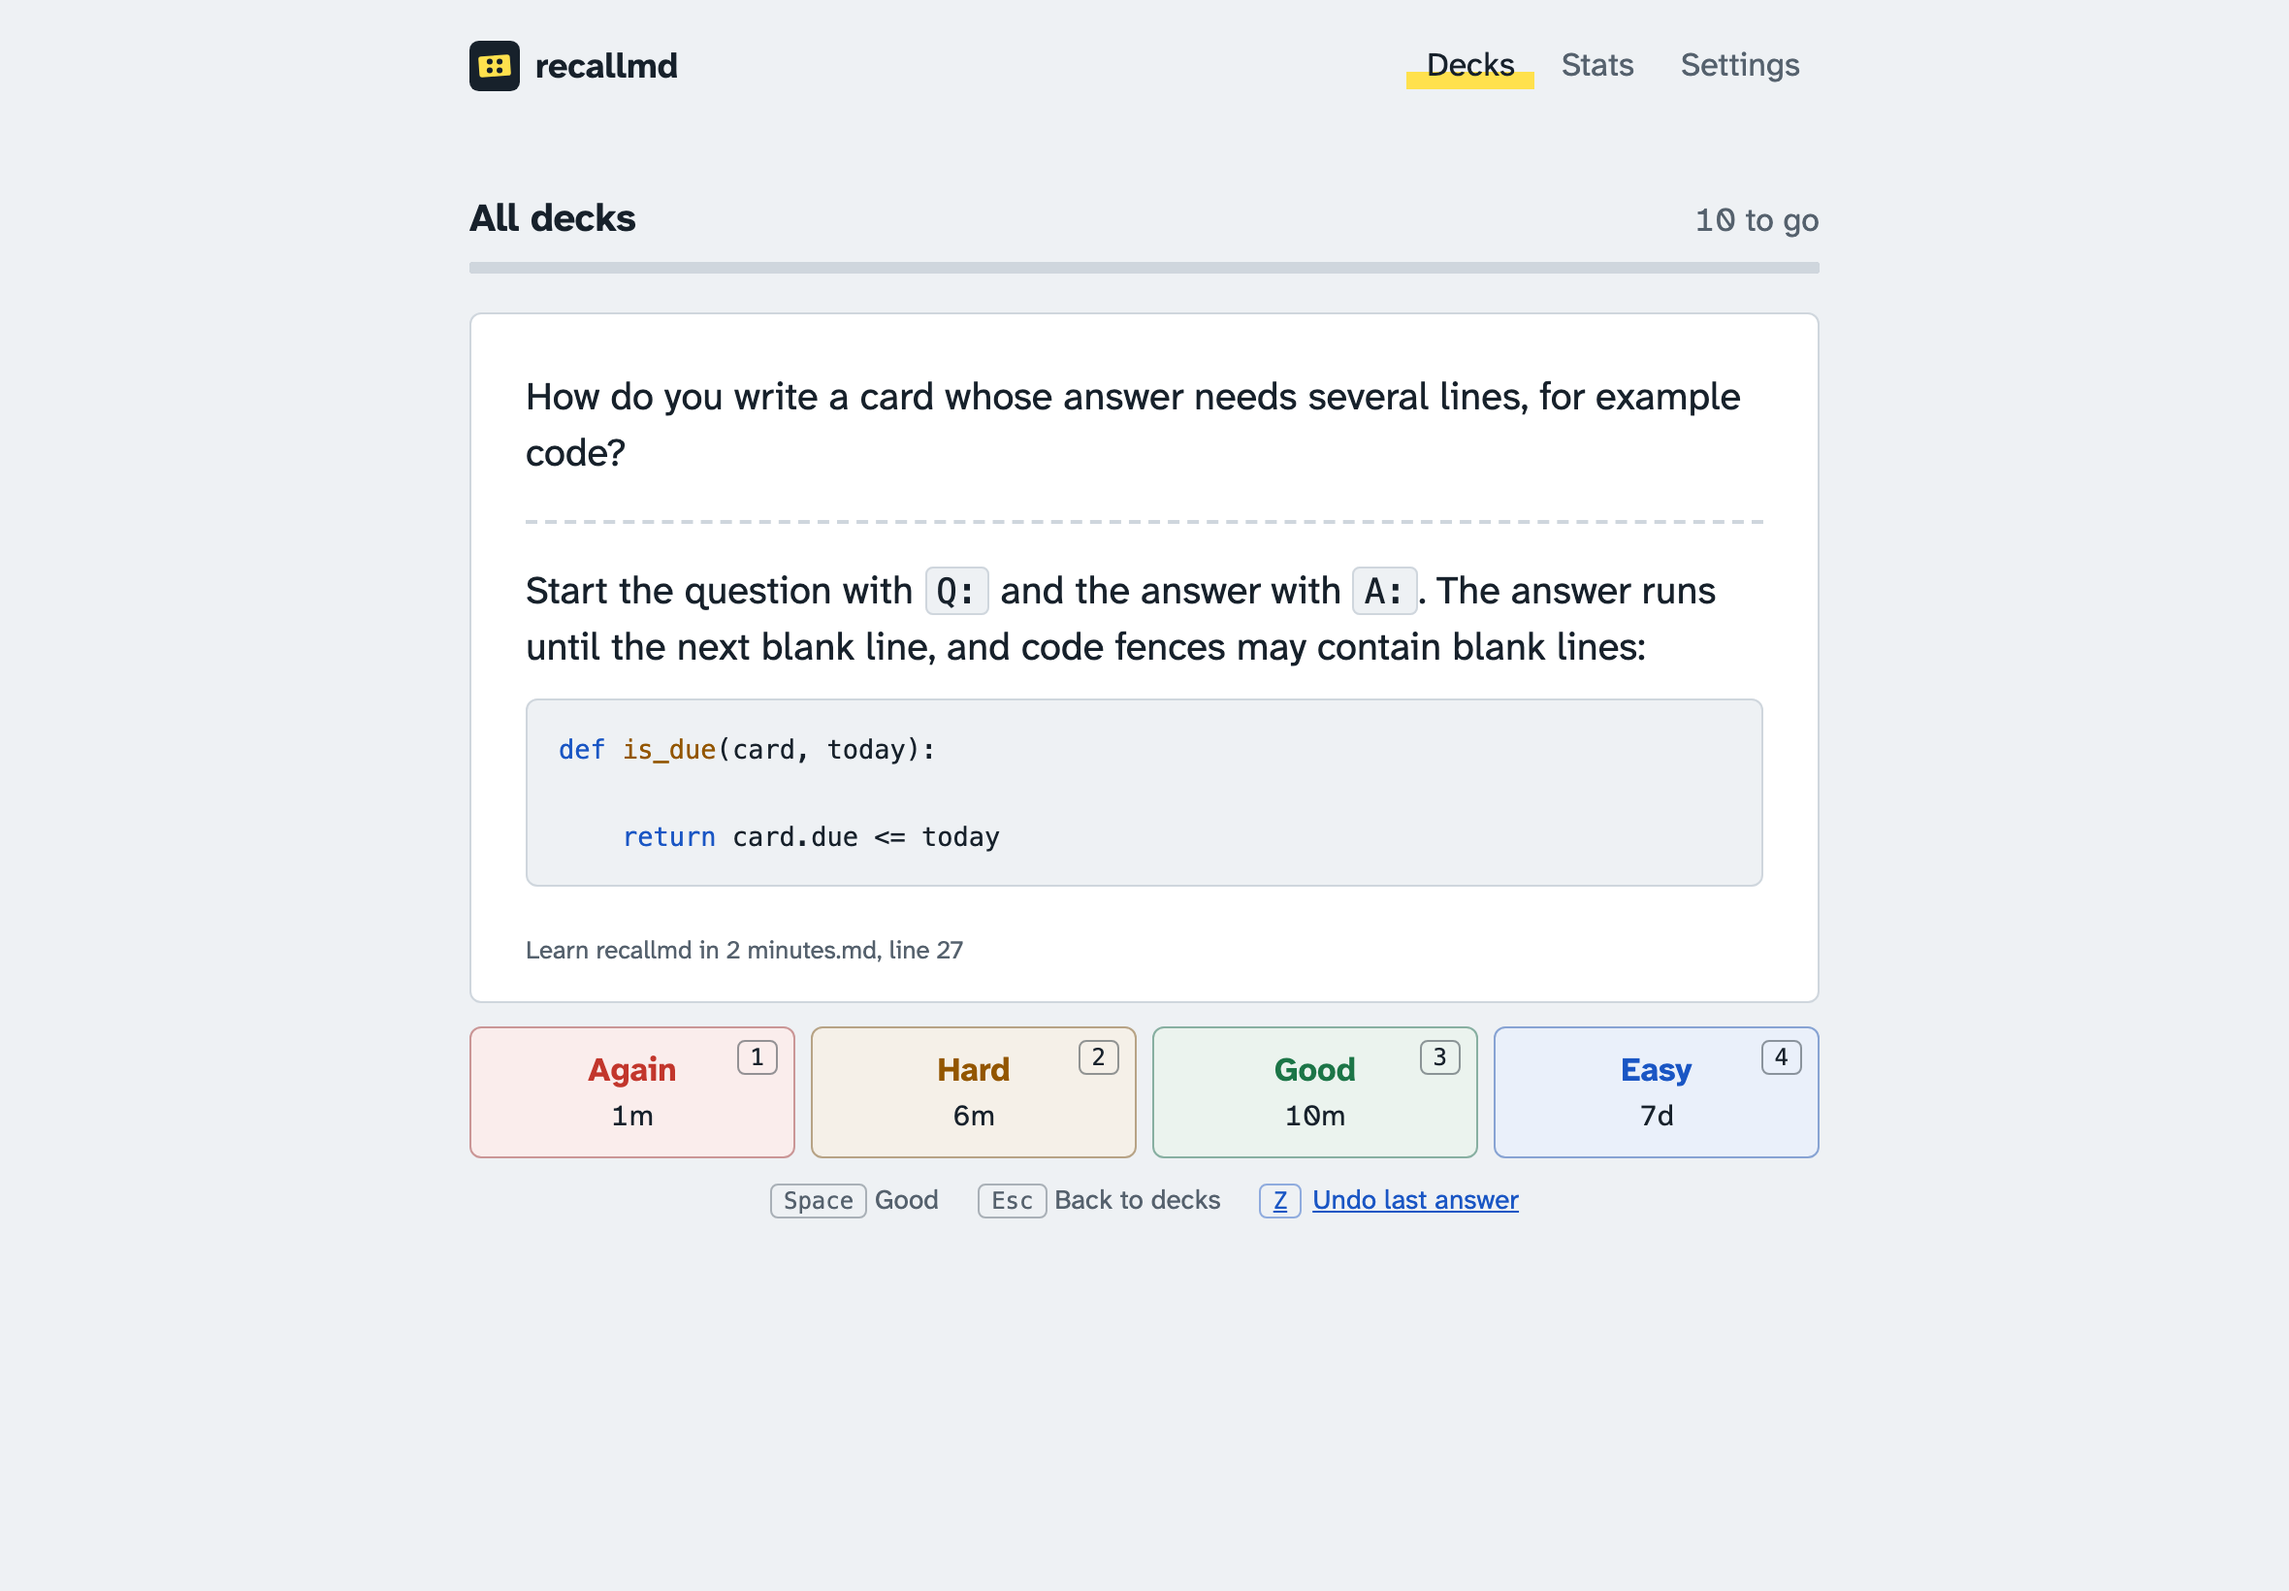
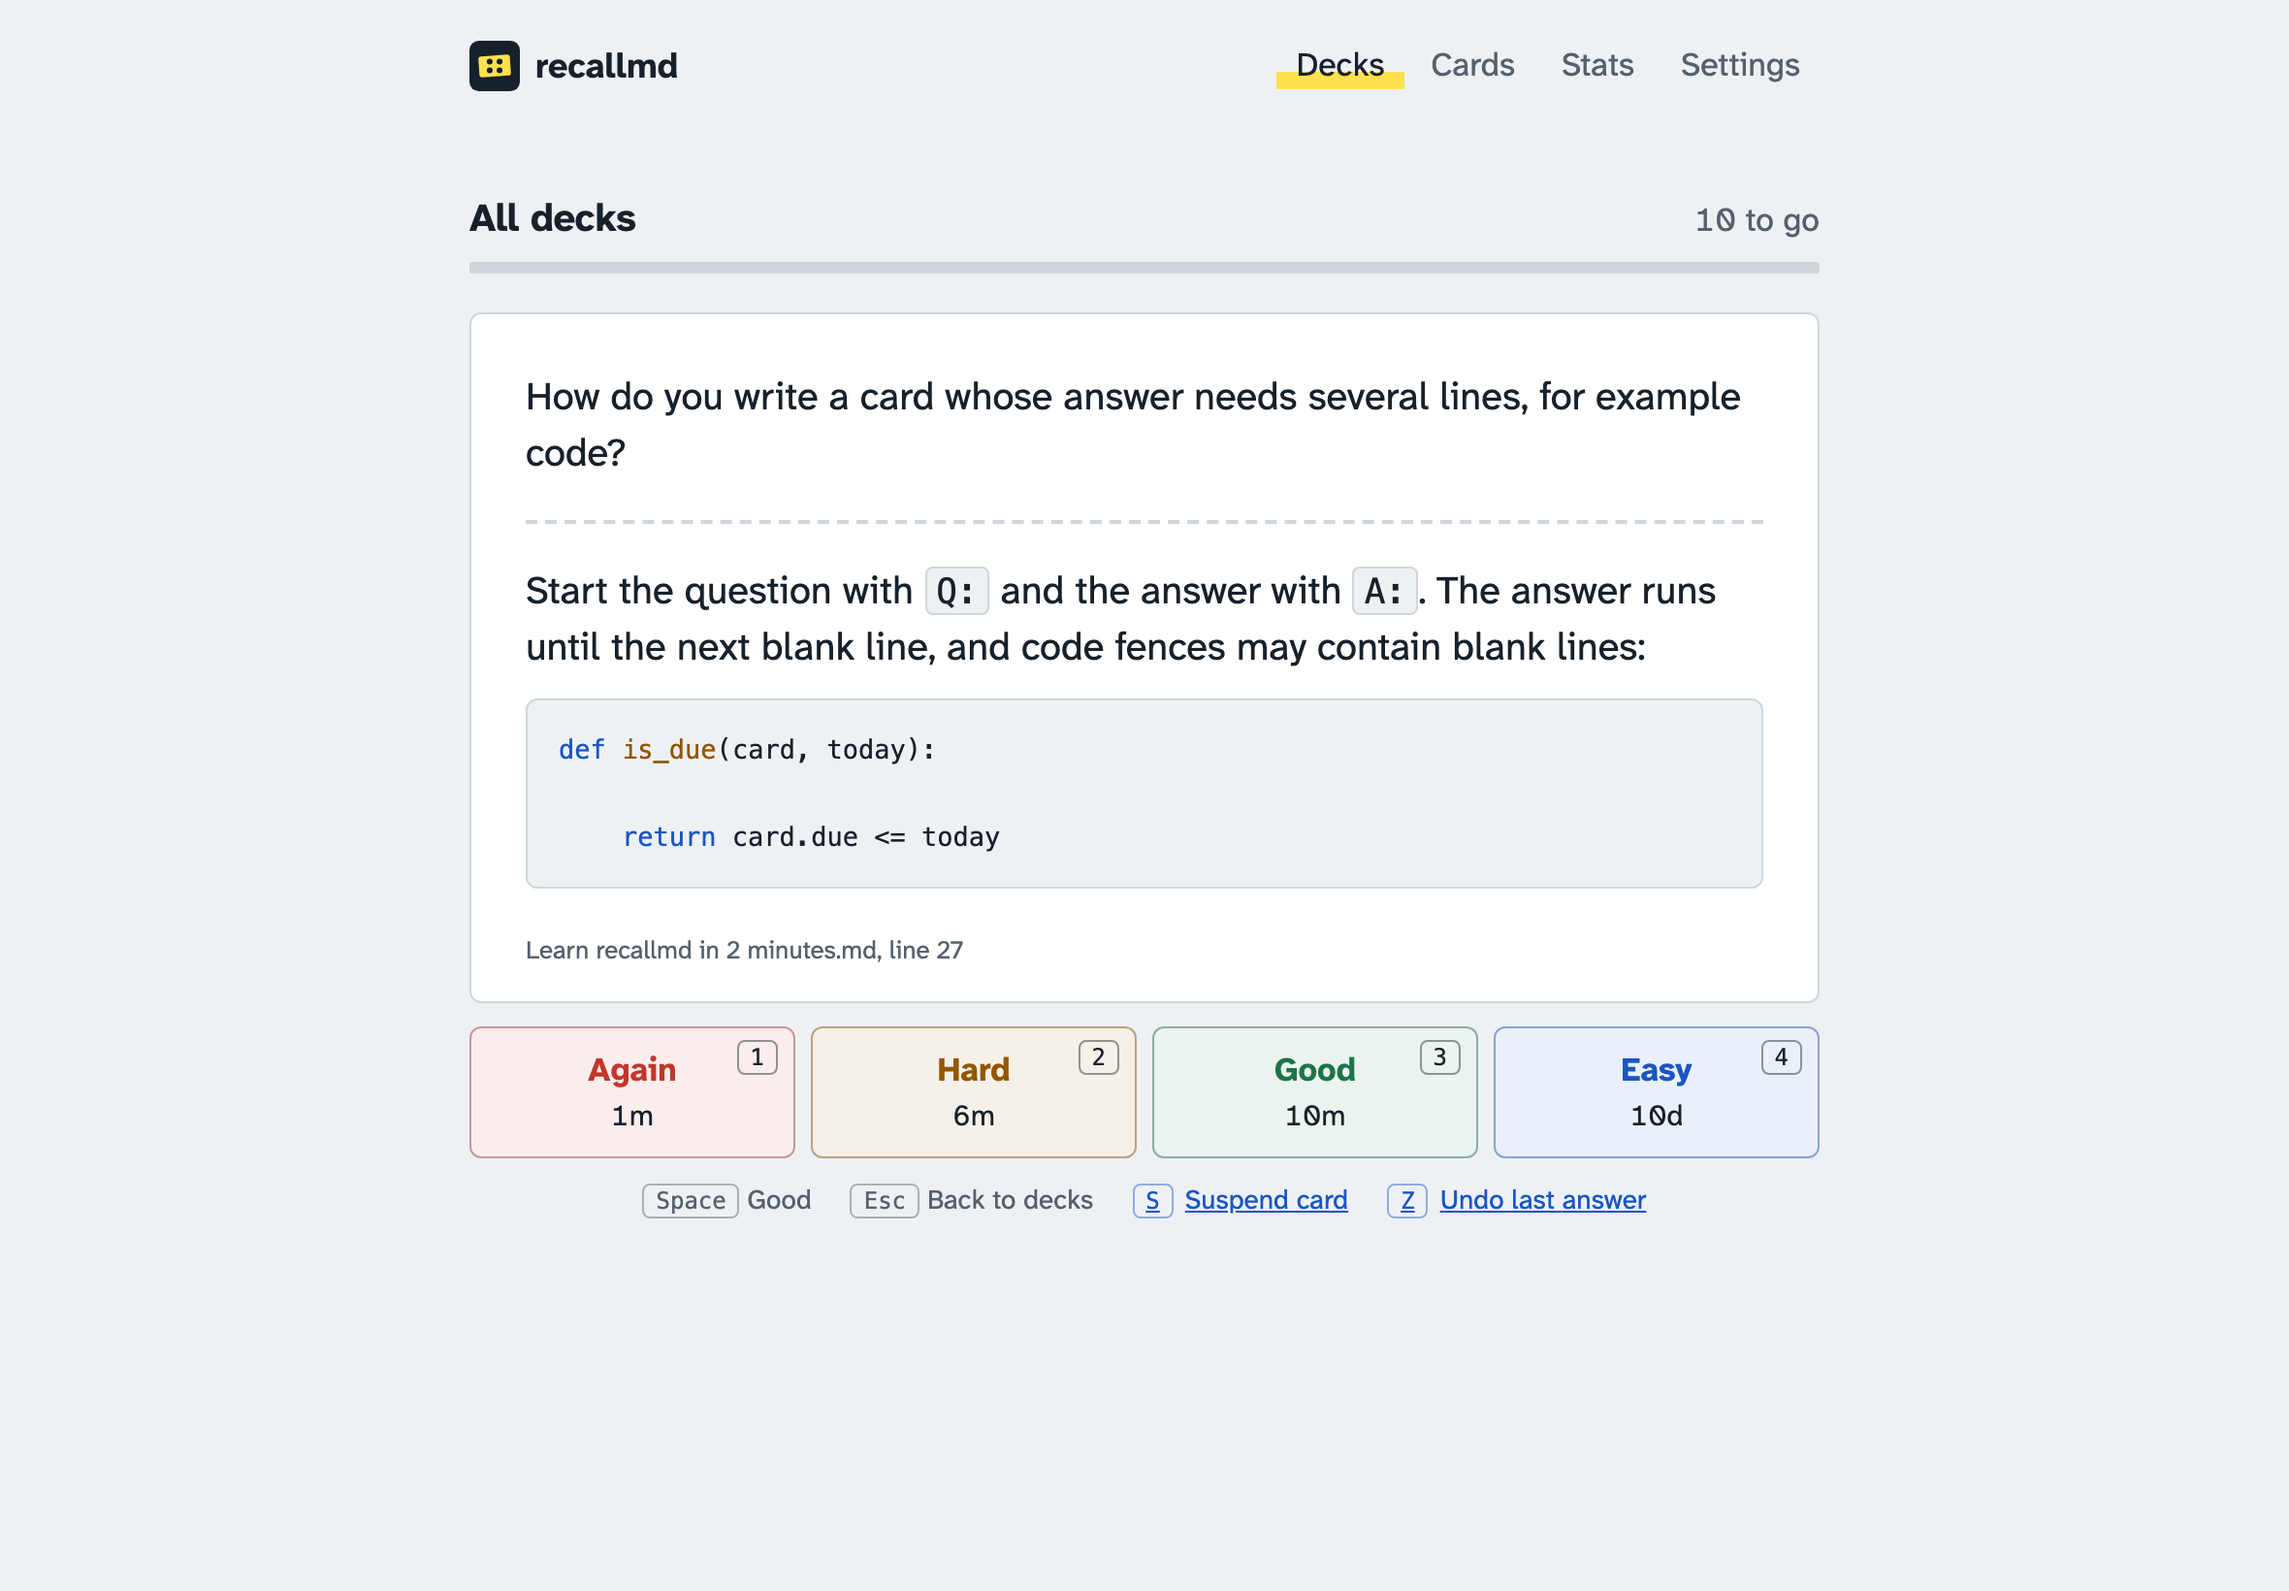
Document the Cards page and suspending, and retake screenshots

Changed region(s): [[0.2784, 0.7463, 0.7114, 0.7774], [0.5568, 0.0311, 0.6805, 0.0622], [0.7114, 0.6841, 0.7424, 0.7152]]

diff --git a/README.md b/README.md
@@ -65,10 +65,11 @@ Card syntax inside code fences, inline code, inline math and one-line HTML comme
 - **Import** by dropping `.md`, `.markdown` or `.txt` files or a whole folder anywhere on the Decks page, by picking files or a folder, or by pasting text. Dot-folders such as `.obsidian` are skipped. A preview shows what will be added, changed and removed before anything is written.
 - **Progress survives edits.** A card's identity is a hash of its question, not its file, position or answer. Fix an answer, move or rename the note, and the card keeps its schedule. If you reword a question but keep its answer, re-importing matches the old card to the new one by similarity and carries the progress over. (Change both and it is treated as a new card.)
 - **FSRS scheduling** (via [ts-fsrs](https://github.com/open-spaced-repetition/ts-fsrs)) with Again / Hard / Good / Easy. Each button shows when the card would come back. Desired retention is adjustable (70–97%).
-- **Keyboard-first review.** `Space` or `Enter` shows the answer, `1`–`4` rate it, `Space` again means Good, `Z` undoes the last answer, `Esc` goes back to the decks.
+- **Keyboard-first review.** `Space` or `Enter` shows the answer, `1`–`4` rate it, `Space` again means Good, `S` suspends the card, `Z` undoes the last answer or suspend, `Esc` goes back to the decks.
+- **Cards page.** Search every card by words from its question, answer, deck, note path or `#tag`, filter to what is due today, new or suspended, and see when each card is due. Suspend a card you do not want to review (a bad split, something you already know) and unsuspend it later: it keeps its progress, and stays suspended when you re-import or remove and re-add its note. Suspended cards are left out of reviews, the deck counts and the forecast.
 - **Daily goal, streak and stats**: reviews per day for the last 30 days, cards coming due over the next 14, true retention, and how many cards are new, learning and in review. Each chart can also be read as a table.
 - **Offline PWA.** After the first visit to a production build the app, fonts, KaTeX and the code highlighter are all cached; it can be installed and used without a connection.
-- **Your data is yours.** Cards, schedule and history are stored in IndexedDB in your browser. Settings → Export progress writes one JSON file; importing it on another browser or device restores everything.
+- **Your data is yours.** Cards, schedule, suspended cards and history are stored in IndexedDB in your browser. Settings → Export progress writes one JSON file; importing it on another browser or device restores everything.
 - Light and dark themes following the system setting, and a layout that works on a phone, with the answer buttons at the bottom of the screen.
 - **Built to be usable without a mouse or with low vision:** a skip button, visible focus everywhere, text at 4.5:1 contrast or better, 44px touch targets, and respect for the reduced-motion and forced-colours settings. This was checked in Chromium with scripts and the keyboard, not yet with a screen reader.
 
@@ -85,16 +86,17 @@ The screenshots are taken from the running app by `scripts/screenshots.mjs`, whi
 - `src/lib/parser.ts` walks a note line by line and returns cards. It is a pure function with no DOM, and has the bulk of the unit tests.
 - `src/lib/importer.ts` compares the parsed cards with what is stored and produces an import plan: cards to write, cards that disappeared from a re-imported note, and progress to move from a removed card to its reworded replacement (same answer, and a Dice similarity of at least 0.6 between the questions' character bigrams).
 - `src/lib/scheduler.ts` wraps ts-fsrs and builds the day's queue: cards in a learning step first, then reviews due before local midnight, then new cards up to the daily allowance. A card answered Again comes back in the same session.
+- `src/lib/browse.ts` filters cards for the Cards page and labels their status.
 - `src/lib/stats.ts` computes streak, retention, forecast and deck counts from the review log.
 - `src/lib/db.ts` stores cards, FSRS state, the review log and settings in IndexedDB, and announces each write to other open tabs over a `BroadcastChannel`. Removing a deck keeps its progress, so importing the same notes later restores it.
 - `src/lib/markdown.ts` renders card Markdown with marked, sanitizes the HTML with DOMPurify, and loads KaTeX and highlight.js only when a card needs them. Production builds also ship a Content-Security-Policy that forbids inline and remote scripts, and rendered notes are paint-contained so their HTML cannot draw outside the card.
-- `src/views/` holds the four screens (Decks, Review, Stats, Settings). There is no router or state library: hash routes and one React hook (`src/store.ts`).
+- `src/views/` holds the five screens (Decks, Review, Cards, Stats, Settings). There is no router or state library: hash routes and one React hook (`src/store.ts`).
 
 ## Development
 
 ```sh
 npm run typecheck   # tsc
-npm test            # unit tests (Vitest): parser, importer, scheduler, stats, storage, backups
+npm test            # unit tests (Vitest): parser, importer, scheduler, stats, card search, storage, backups
 npm run build
 npm run e2e         # Playwright against the production build; run `npm run build` first
 ```
@@ -119,7 +121,8 @@ CI runs all four on every push. `.github/workflows/deploy.yml` builds and publis
 - Re-sync a folder in one click with the File System Access API
 - Import attachments so local images show up
 - Reversed cards and the other Obsidian Spaced Repetition separators (`:::`, `?`, `??`)
-- A card browser with search, and suspending cards
+- Suspending or unsuspending every card a search finds at once
+- Showing a card's rendered Markdown on the Cards page (it lists the plain text today)
 - Merging a backup into existing data instead of replacing it
 - Optimizing FSRS parameters from your own review history
 

diff --git a/CHANGELOG.md b/CHANGELOG.md
@@ -5,6 +5,17 @@ The format follows [Keep a Changelog](https://keepachangelog.com/en/1.1.0/), and
 
 ## [Unreleased]
 
+### Added
+
+- A Cards page (`#/cards`, in the header): search every card by words from its question, answer, deck, note path or `#tag`, filter to due today, new or suspended, and see each card's status ("Due in 4d"). It lists the first 100 matches.
+- Suspending cards. Suspend or unsuspend from the Cards page, or press `S` (or "Suspend card") during a review; `Z` takes a suspend back like an answer. A suspended card keeps its progress, is left out of reviews, deck counts and the forecast, and stays suspended across re-imports. Stats shows how many are suspended, linking to them. Backups carry a `suspended` list; backups without one still load.
+
+### Changed
+
+- Below 26rem the header shows the app icon without its name, so the four links fit down to 320px.
+
+Earlier in this release:
+
 Four rounds of changes. The fourth was a security pass (see "Security" below). The first was an independent first-run review: a fresh clone, the README quickstart followed literally, and a read of the whole codebase. The second was a design and accessibility pass: every screen looked at in screenshots of the running app at 1180px, 390px and 320px, light and dark, and walked with the keyboard. The third was a second design pass that re-shot every screen and state (done, empty, dialogs) and found the two issues listed first under Fixed; README screenshots were regenerated and showed no visible change, so they were left as they were.
 
 ### Security
@@ -82,4 +93,5 @@ First release.
 - GitHub Pages is not enabled. The deploy workflow only runs from the Actions tab.
 - Security pass (round four), what was checked and found fine: DOMPurify blocks `javascript:` links, event handlers and scripts (e2e test); KaTeX runs with `trust: false` and its default `maxExpand`; backup import validates every field and caps files at 100 MB; dropped folders skip dot-folders and cap file size and count; `npm audit` reports nothing; no secrets in git history; both workflows have `contents: read` at the top and only the deploy job gets `pages: write`. Not fixed: marked itself is slow on a very long line of `_a_a_a…` (about 1.4 s for 40 KB), which is upstream.
 - The action SHAs in `.github/workflows/` were looked up with `gh api repos/<owner>/<action>/commits/<tag>`; update them the same way.
+- Suspension (feature round): `AppData.suspended` is a `Set` of card ids, stored whole under the `kv` key `suspended` by `db.saveSuspended`. It is never pruned, on purpose: like progress, it must survive removing and re-importing a note. Filtering happens at the callers (App for review, Home for the queue, Stats for the forecast); `countCards`/`deckRows` take the set and count suspended cards only in `total`. `store.suspend` updates memory first and reloads from storage if the write fails. Gaps the previous round listed were rechecked and are not bugs: marked's slowness is upstream, remote images loading from their server is documented under Limits, and Pages, Node 20 and other browsers are out of reach here.
 - Not done yet: see the Roadmap in the README.
